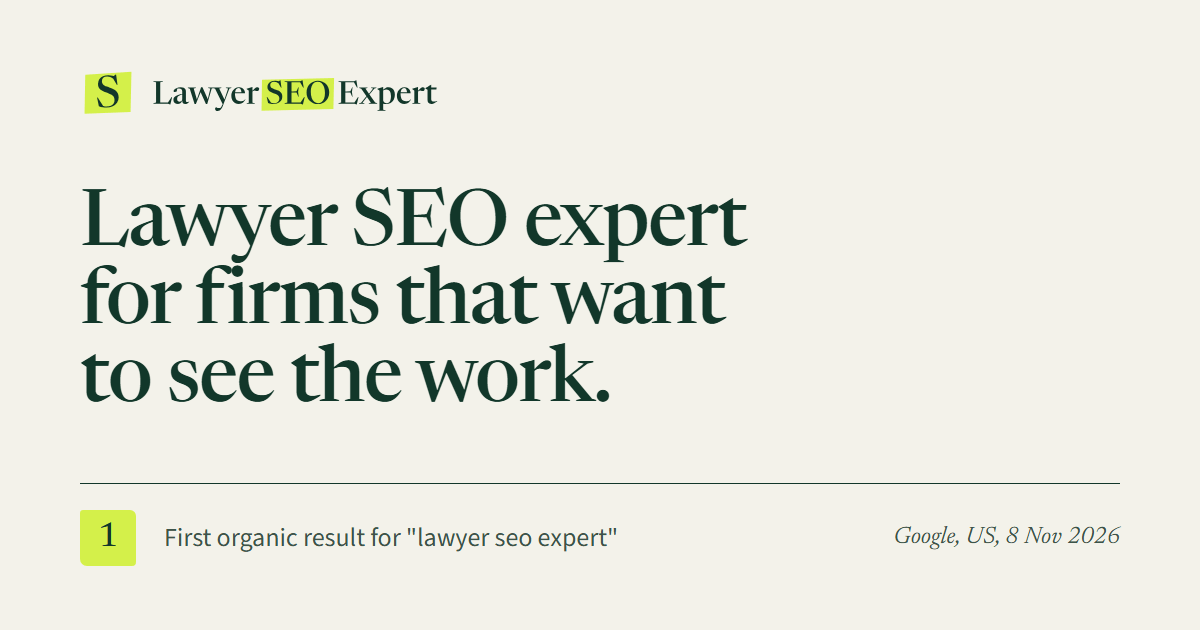
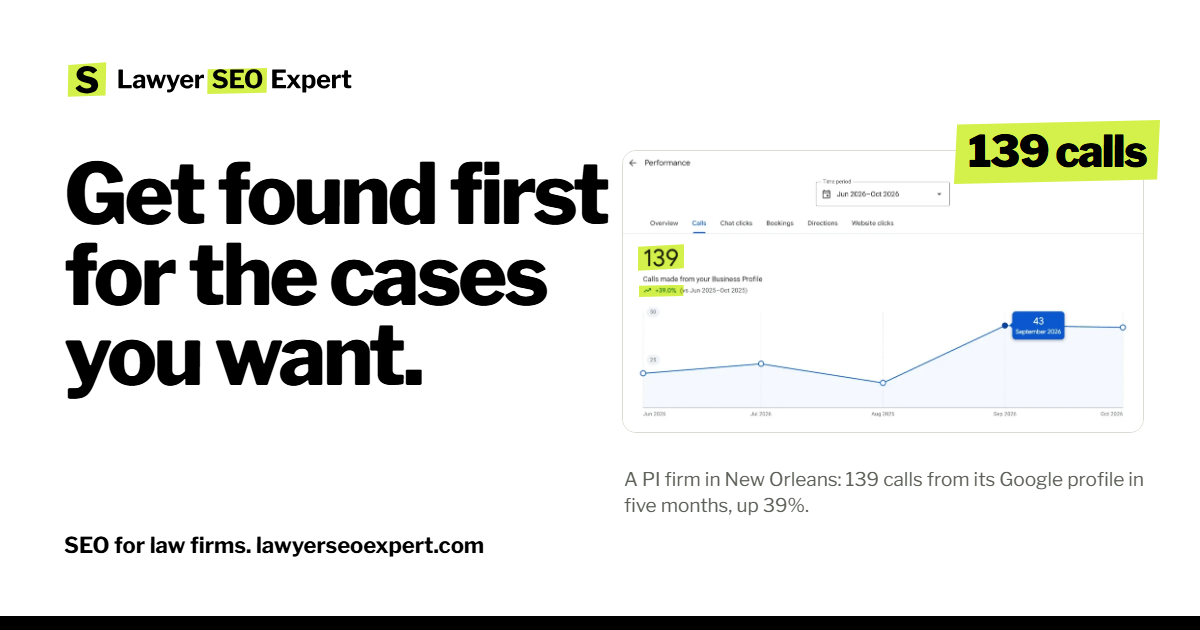
Add /variants/ with two other directions, a new share image, and the hero panel
/variants/ (noindex, so not in the sitemap) shows the hero and first results
in two other looks: B "Evergreen" with the form inside a dark hero card, and
C "Yellow pad" with the real calendar in a band straight under the hero,
loaded only when it scrolls into view. The share image is redrawn in the new
style. The hero result now sits on a fog panel. The e2e skeleton expects the
homepage's two forms (hero and final).

Claude-Session: https://claude.ai/code/session_01BoWcXNnQPrGs4yfsdbaECn

diff --git a/tests/e2e/skeleton.spec.ts b/tests/e2e/skeleton.spec.ts
@@ -4,11 +4,13 @@
 import { LOCAL, PROD, expect, fillForm, submitForm, test, waitForRow } from './helpers';
 
 test.describe('pages and the Worker', () => {
-  test('the homepage loads with the tracker, the form and the booking dialog', async ({ page }) => {
+  test('the homepage loads with the tracker, both forms and the booking dialog', async ({ page }) => {
     await page.goto(`${PROD}/`);
     await expect(page.locator('h1')).toHaveCount(1);
     await expect(page.locator('script[data-lse-tracker]')).toHaveCount(1);
-    await expect(page.locator('form[data-lead-form]')).toHaveCount(1);
+    // The short form in the hero (owner rule: a way to act in the hero) and the full one in the final section.
+    await expect(page.locator('form[data-lead-form]')).toHaveCount(2);
+    await expect(page.locator('input[name="source_form"][value="Homepage hero form"]')).toHaveCount(1);
     await expect(page.locator('dialog[data-bookdlg]')).toHaveCount(1);
   });
 
